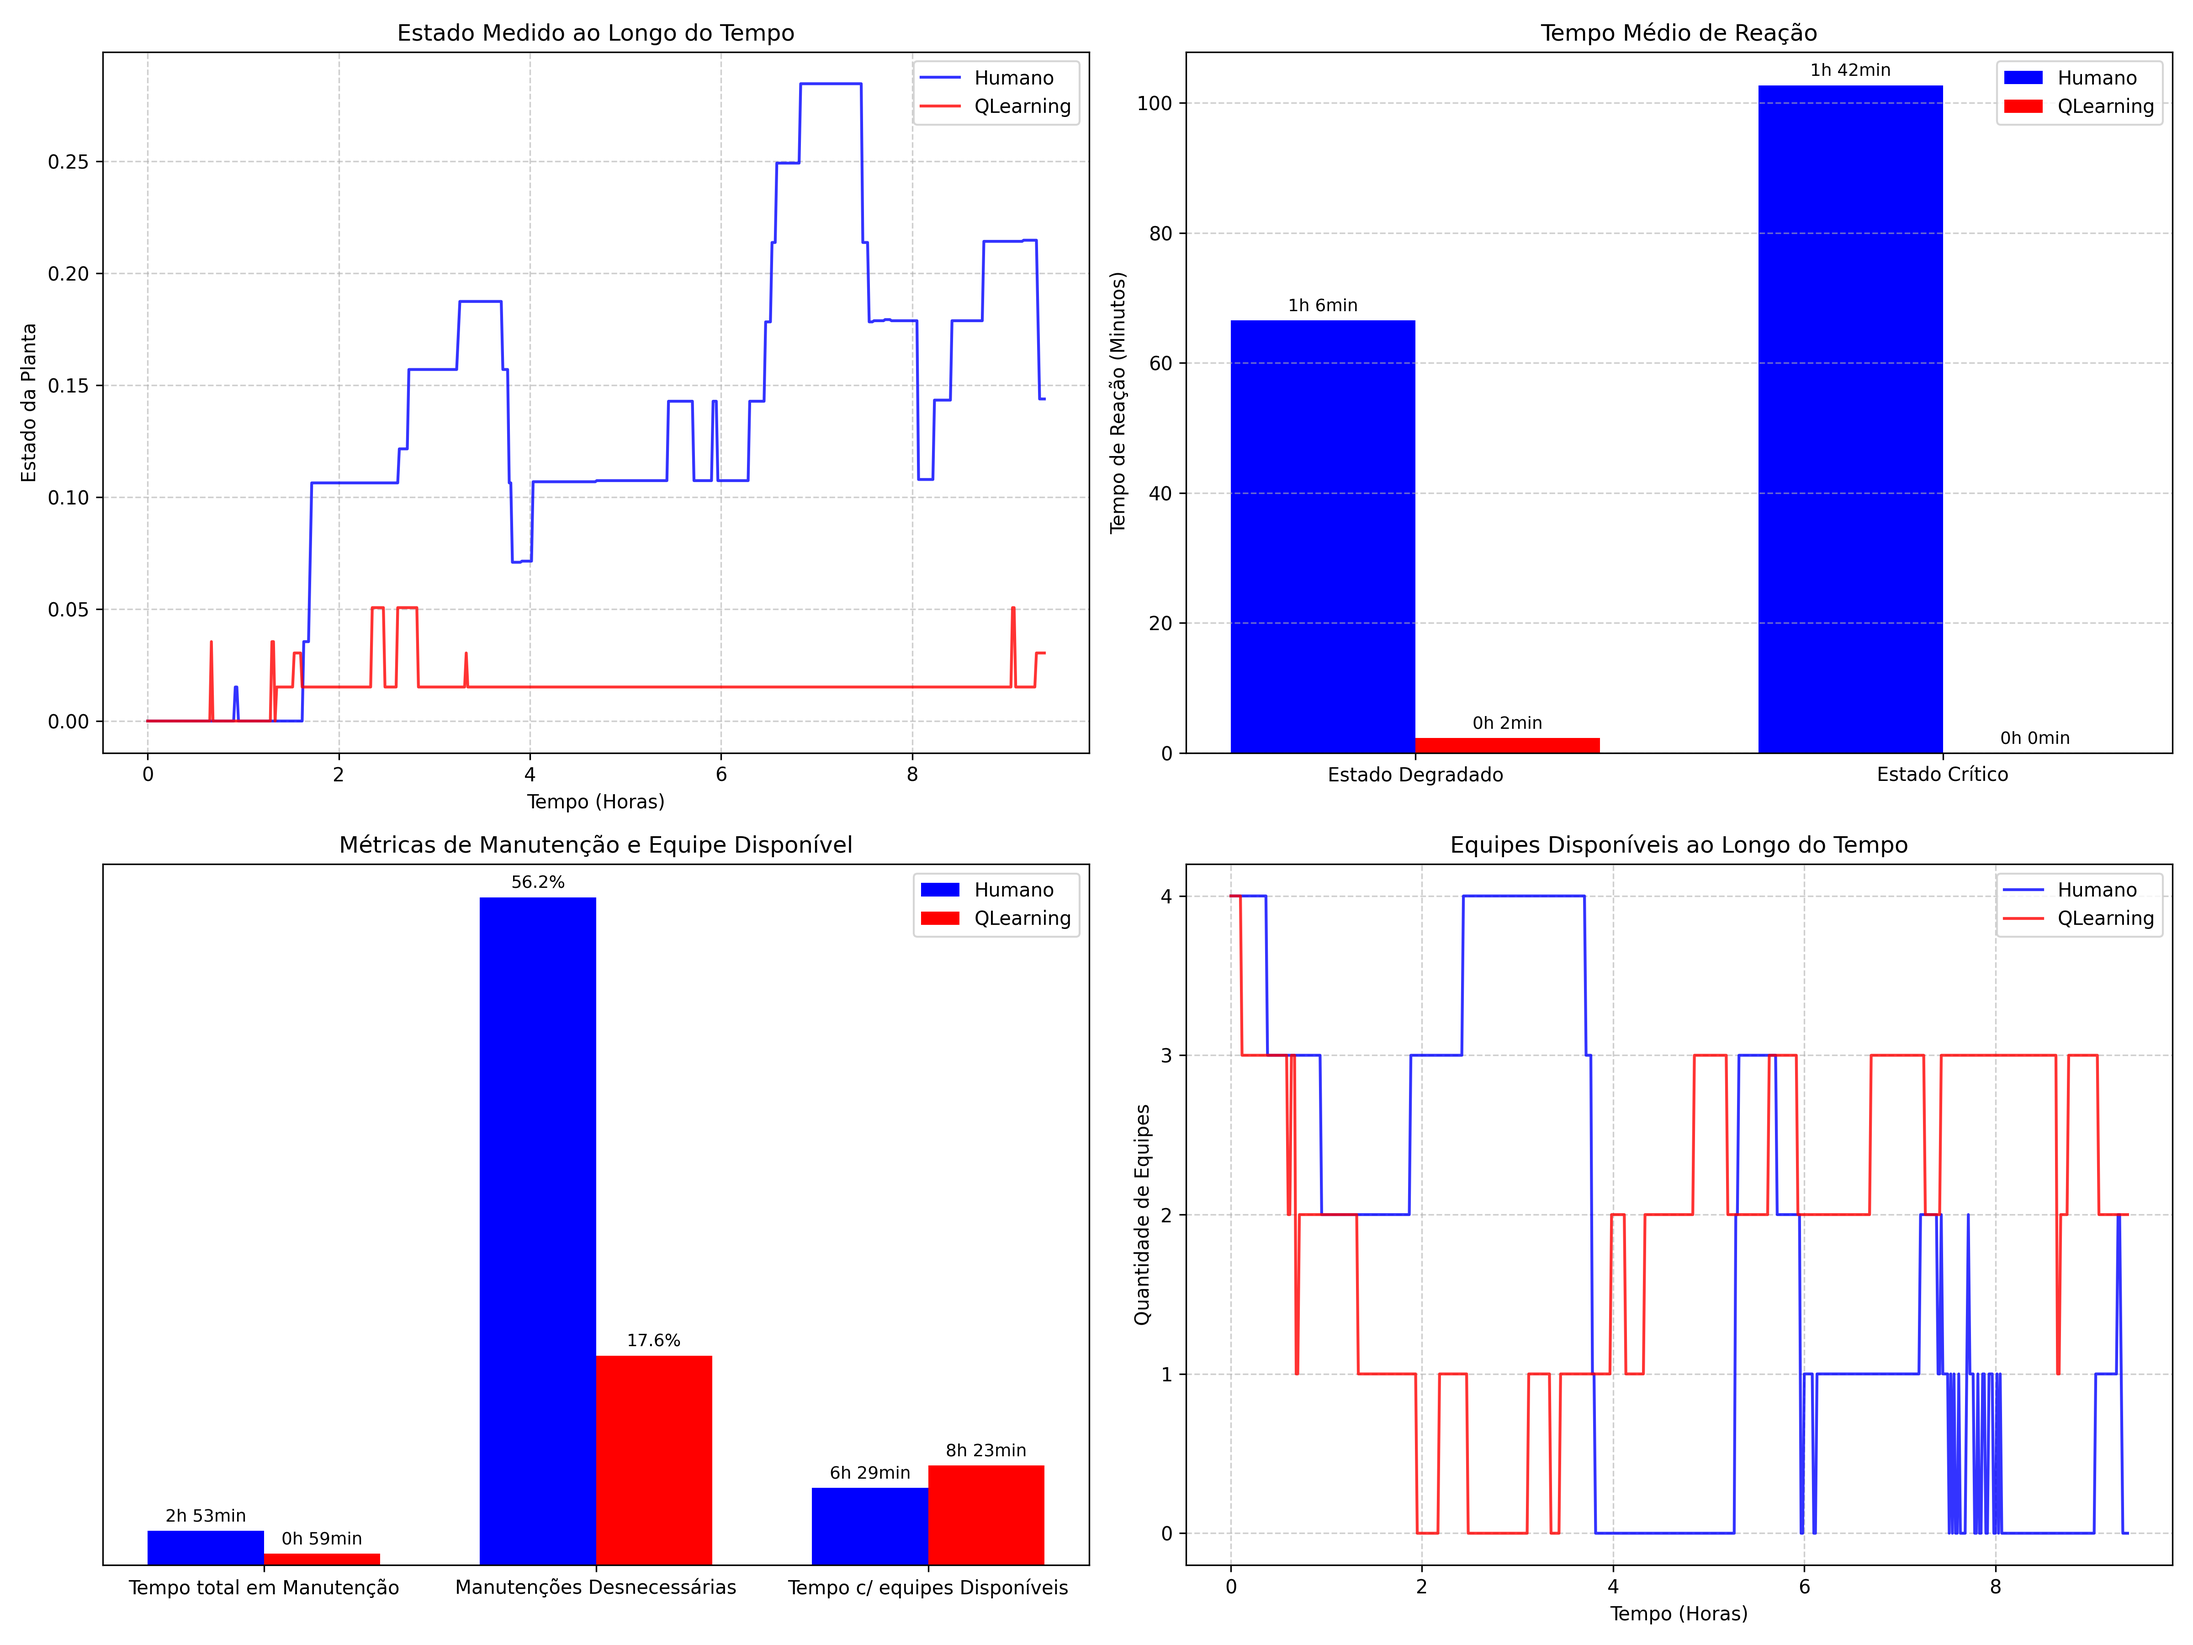
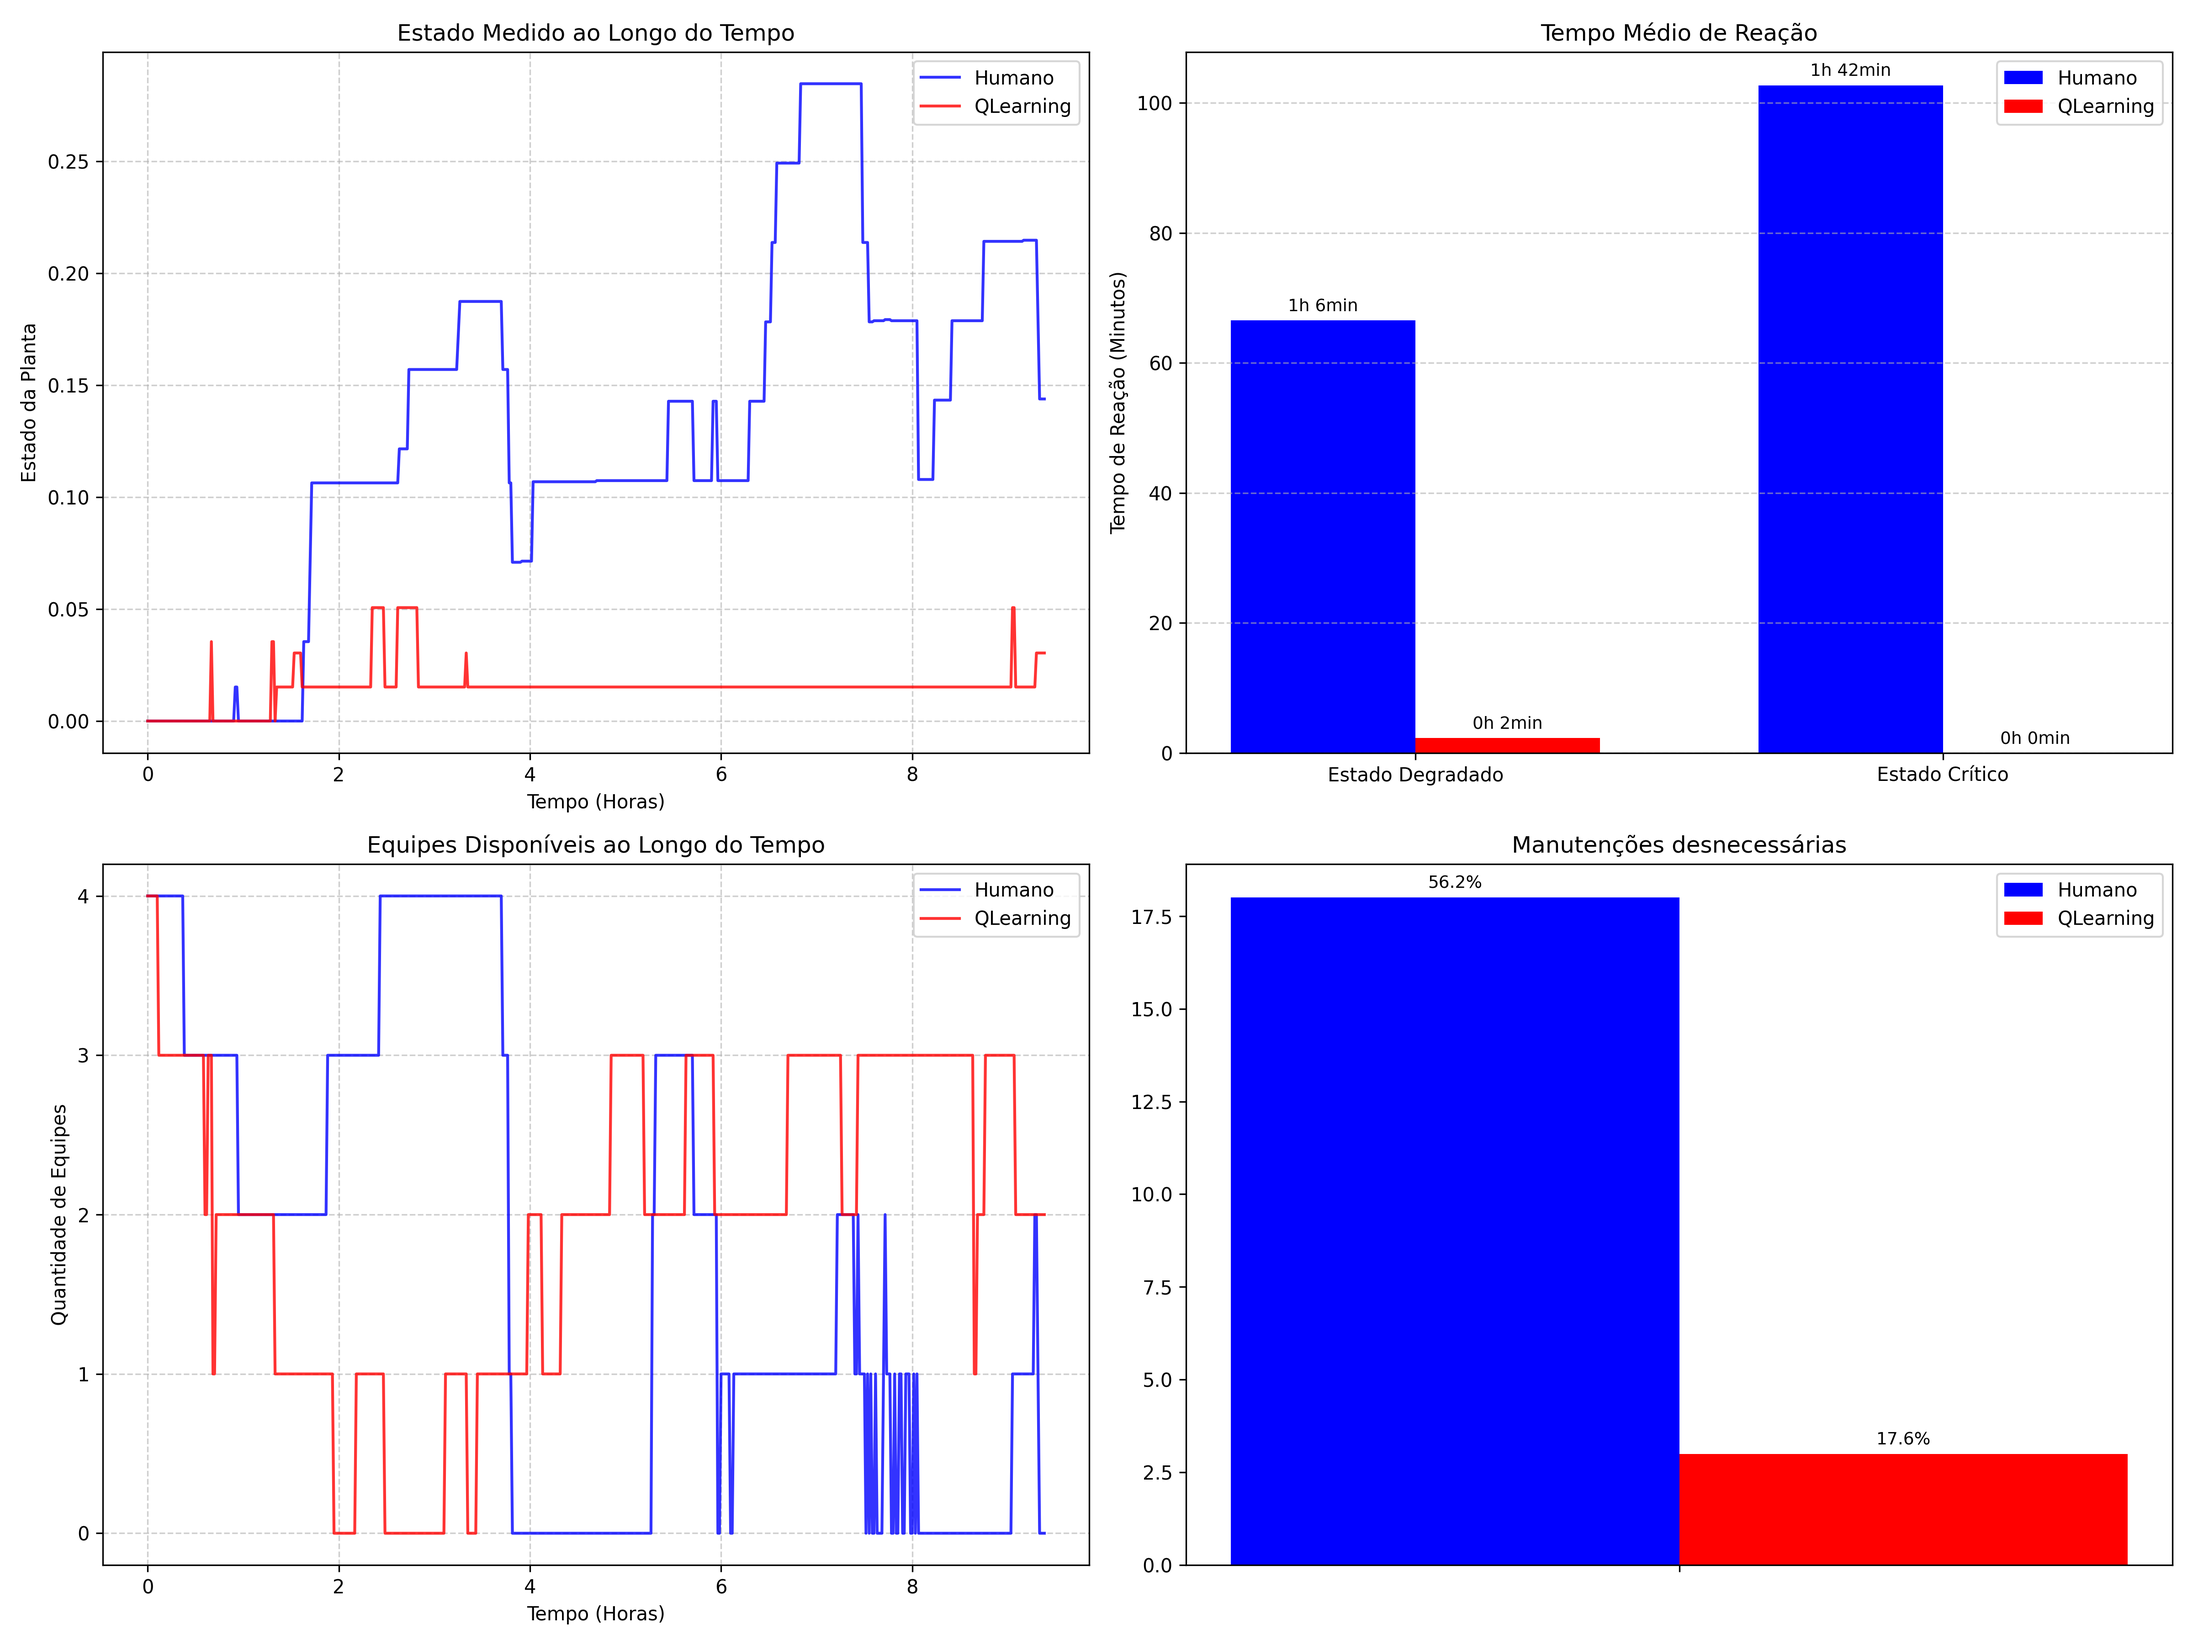
remaking the learning rate and metrics graphs

diff --git a/metrics.py b/metrics.py
@@ -36,12 +36,12 @@ def autolabel_minutes(bars, ax):
                     ha='center', va='bottom', fontsize=9)
 
 
-def autolabel_mixed(bars, ax, pct_idx=1):
+def autolabel_mixed(bars, ax, pct_idx=0, total=0):
     """Adiciona rótulos: 'Xh Ym' para horas, 'Z%' para porcentagem"""
     for i, bar in enumerate(bars):
         height = bar.get_height()
         if i == pct_idx:
-            label_text = f"{height:.1f}%"
+            label_text = f"{height / total * 100:.1f}%"
         else:
             label_text = format_hours_minutes(height)
 
@@ -119,25 +119,22 @@ def plot_comparisons(file_human, file_qlearning):
     # =========================================================================
     # GRÁFICO 3: Barras - Seções Diversas (Manutenção e Equipes)
     # =========================================================================
-    ax3 = axs[1, 0]
+    ax3 = axs[1, 1]
 
     # Cálculos Humano
     human_maint_time_h = ms_to_hours(last_human['total_maintenance_time'])
-    human_unnec_maint_pct = (last_human['unnecessary_maintenances'] /
-                             last_human['total_maintenances'] * 100) if last_human['total_maintenances'] > 0 else 0
+    human_unnec_maint_pct = last_human['unnecessary_maintenances'] 
     human_avail_time_h = ms_to_hours(last_human['time_with_available_teams'])
 
     # Cálculos QLearning
     ql_maint_time_h = ms_to_hours(last_ql['total_maintenance_time'])
-    ql_unnec_maint_pct = (last_ql['unnecessary_maintenances'] /
-                          last_ql['total_maintenances'] * 100) if last_ql['total_maintenances'] > 0 else 0
+    ql_unnec_maint_pct = last_ql['unnecessary_maintenances'] 
     ql_avail_time_h = ms_to_hours(last_ql['time_with_available_teams'])
 
-    categories_3 = ['Tempo total em Manutenção',
-                    'Manutenções Desnecessárias', 'Tempo c/ equipes Disponíveis']
-    human_vals = [human_maint_time_h,
-                  human_unnec_maint_pct, human_avail_time_h]
-    ql_vals = [ql_maint_time_h, ql_unnec_maint_pct, ql_avail_time_h]
+    categories_3 = ['']
+    human_vals = [
+                  human_unnec_maint_pct]
+    ql_vals = [ ql_unnec_maint_pct]
 
     x3 = np.arange(len(categories_3))
 
@@ -146,21 +143,21 @@ def plot_comparisons(file_human, file_qlearning):
     bars_ql_3 = ax3.bar(x3 + width/2, ql_vals, width,
                         color=color_ql, label=label_ql)
 
-    ax3.set_title('Métricas de Manutenção e Equipe Disponível')
+    ax3.set_title('Manutenções desnecessárias')
     ax3.set_xticks(x3)
     ax3.set_xticklabels(categories_3)
     ax3.legend()
 
-    autolabel_mixed(bars_human_3, ax3)
-    autolabel_mixed(bars_ql_3, ax3)
+    autolabel_mixed(bars_human_3, ax3, total=last_human['total_maintenances'])
+    autolabel_mixed(bars_ql_3, ax3, total=last_ql['total_maintenances'])
 
-    # Oculta eixo Y do gráfico 3 para focar nos labels
-    ax3.set_yticks([])
+    # # Oculta eixo Y do gráfico 3 para focar nos labels
+    # ax3.set_yticks([])
 
     # =========================================================================
     # GRÁFICO 4: Linha - available_teams vs time (em horas)
     # =========================================================================
-    ax4 = axs[1, 1]
+    ax4 = axs[1, 0]
     ax4.plot(ms_to_hours(df_human['time']), df_human['available_teams'],
              color=color_human, label=label_human, alpha=0.8)
     ax4.plot(ms_to_hours(df_ql['time']), df_ql['available_teams'],

diff --git a/qlearning_learning_rate.py b/qlearning_learning_rate.py
@@ -1,15 +1,20 @@
 import pandas
 import matplotlib.pyplot as plt
-import matplotlib
+import matplotlib.ticker as ticker
 import numpy as np
 from io import StringIO
 from metrics import ms_to_hours, format_hours_minutes
+
 
 def ms_to_years(time_ms: int):
     return time_ms/31540000000
 
 def ms_to_months(time_ms: int):
     return time_ms/2628000000
+
+
+def format_k(x, pos):
+    return f'{x*1e-3:g}k'
 
 results_file = "results-qlearning-learning-3years-4months.csv"
 sensors_config_file = "sensors_config.json"
@@ -68,7 +73,7 @@ for i in range(len(total_reward_column[2:])):
     y4[i] = qtable_size[i]
 
 
-fig, ((ax1,ax2),(ax3,ax4)) = plt.subplots(2,2)
+fig, (ax1,ax2,ax4) = plt.subplots(1,3)
 
 ax1.set_title("Total recompensa por hora")
 ax1.plot(x,y)
@@ -81,15 +86,16 @@ ax2.plot(x,y2)
 ax2.set_xlabel("Tempo (Anos)")
 ax2.set_ylabel("Manutenções")
 
-ax3.set_title("Q-Learning Epsilon (ε)")
-ax3.plot(x,y3)
-ax3.set_xlabel("Tempo (Anos)")
-ax3.set_ylabel("Epsilon (ε)")
+# ax3.set_title("Q-Learning Epsilon (ε)")
+# ax3.plot(x,y3)
+# ax3.set_xlabel("Tempo (Anos)")
+# ax3.set_ylabel("Epsilon (ε)")
 
 ax4.set_title("Tamanho Q-Table")
 ax4.plot(x,y4)
 ax4.set_xlabel("Tempo (Anos)")
 ax4.set_ylabel("Estados explorados")
+ax4.yaxis.set_major_formatter(ticker.FuncFormatter(format_k))
 
 # ax5.set_title("Tempo com equipes disponíveis")
 # ax5.plot(x,y5)
